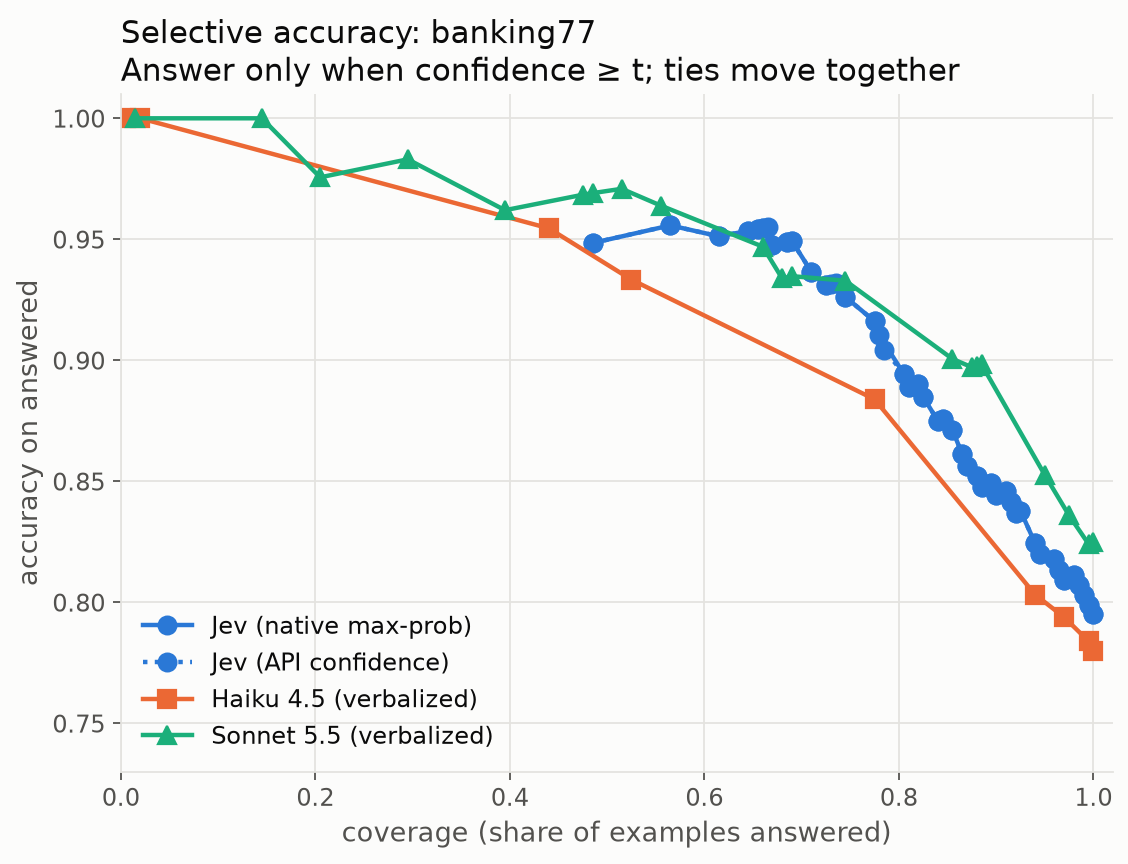
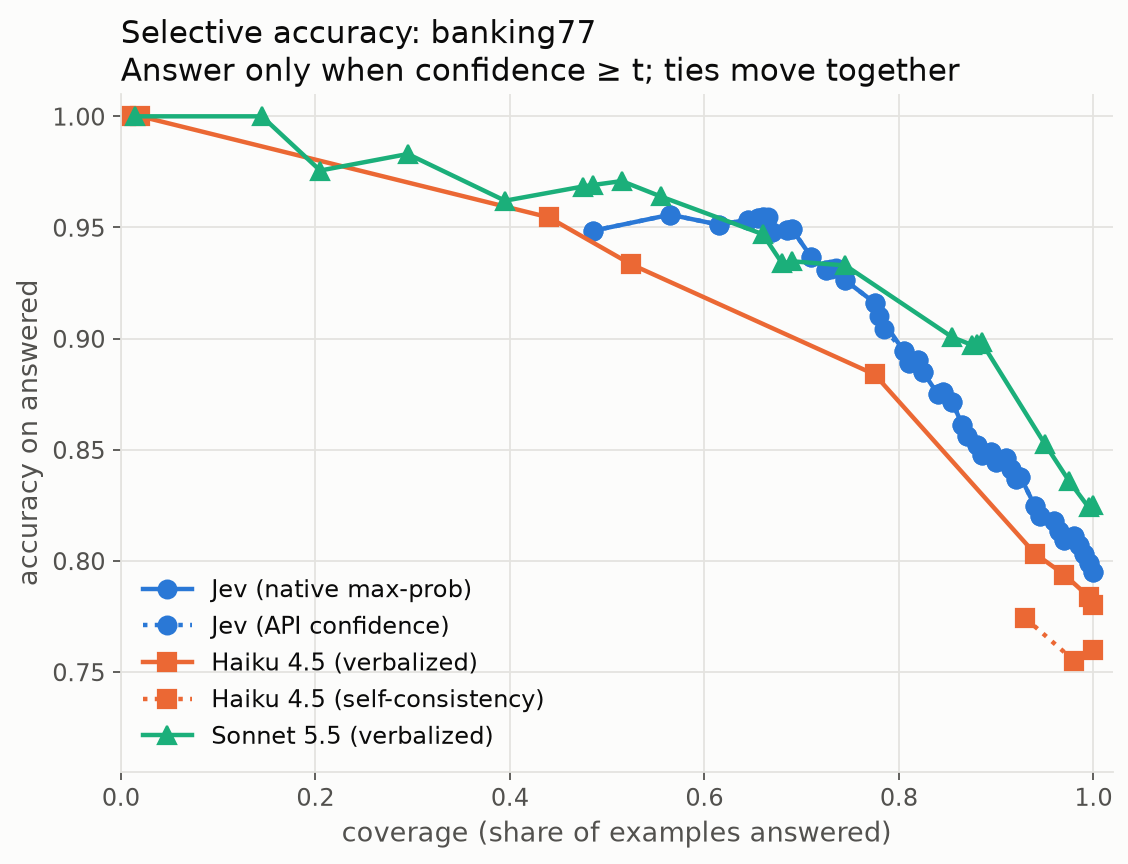
Add Haiku self-consistency results and same-subset comparison
- Banking77, 100 examples x k=5 at temperature 1.0 via the Batches API
- summary.md compares every method on the exact examples self-consistency used
- Spend ledger final at $1.82 of the $4.00 cap

diff --git a/src/jev_bench/report.py b/src/jev_bench/report.py
@@ -47,6 +47,7 @@ class Unit:
     gold: list[str]
     decisions: list[Decision]
     warmup: list[bool]
+    example_ids: list[str]
 
     @property
     def key(self) -> str:
@@ -75,22 +76,23 @@ def load_units(raw_dir: Path = RAW_DIR) -> list[Unit]:
     units: list[Unit] = []
     for path in sorted(raw_dir.glob("*.jsonl"), key=_model_order):
         dataset, model, mode = path.stem.split("__")
-        gold, decisions, warm = [], [], []
+        gold, decisions, warm, ids = [], [], [], []
         with path.open(encoding="utf-8") as f:
             for line in f:
                 r = json.loads(line)
                 gold.append(r["gold"])
                 decisions.append(Decision.model_validate(r["decision"]))
                 warm.append(bool(r.get("warmup")))
+                ids.append(r["example_id"])
         method = METHOD.get((model, mode), mode)
-        units.append(Unit(dataset, model, mode, method, gold, decisions, warm))
+        units.append(Unit(dataset, model, mode, method, gold, decisions, warm, ids))
         if model == "jev" and mode == "batch":
             # Same predictions, scored with the API's own `confidence` field.
             api = [
                 d.model_copy(update={"confidence": d.api_confidence}) if d.error is None else d
                 for d in decisions
             ]
-            units.append(Unit(dataset, model, mode, "API confidence", gold, api, warm))
+            units.append(Unit(dataset, model, mode, "API confidence", gold, api, warm, ids))
     return units
 
 
@@ -250,6 +252,45 @@ def summary_markdown(df: pd.DataFrame, cfg: BenchConfig) -> str:
     return "\n".join(lines) + "\n"
 
 
+def same_subset_markdown(units: list[Unit], n_bins: int) -> str:
+    """Compare every method on exactly the examples the self-consistency run used.
+
+    Self-consistency runs on a smaller subset (it costs k calls per example), so
+    its row in the main table is not directly comparable to 200-example rows.
+    """
+    sc = [u for u in units if u.mode == "self_consistency"]
+    if not sc:
+        return ""
+    lines = []
+    for s in sc:
+        ids = {d_id for d_id, w in zip(s.example_ids, s.warmup, strict=True) if not w}
+        lines += [
+            f"## Same-subset comparison: {s.dataset} "
+            f"({len(ids)} examples used by self-consistency)",
+            "",
+            "| model (confidence) | accuracy | ECE | AUROC | wrong@≥0.9 | hard ≥0.99 |",
+            "|---|---|---|---|---|---|",
+        ]
+        for u in units:
+            if u.dataset != s.dataset or u.mode == "latency":
+                continue
+            keep = [i for i, d_id in enumerate(u.example_ids) if d_id in ids]
+            sub = Unit(
+                u.dataset, u.model, u.mode, u.method,
+                [u.gold[i] for i in keep], [u.decisions[i] for i in keep],
+                [u.warmup[i] for i in keep], [u.example_ids[i] for i in keep],
+            )  # fmt: skip
+            correct_all, conf, corr = _arrays(sub)
+            lines.append(
+                f"| {u.label} | {_fmt(M.accuracy(correct_all), 'pct')} "
+                f"| {_fmt(M.ece(conf, corr, n_bins))} | {_fmt(M.auroc(conf, corr))} "
+                f"| {_fmt(M.confident_wrong_rate(conf, corr, 0.9), 'pct')} "
+                f"| {_fmt(M.hard_share(conf), 'pct')} |"
+            )
+        lines.append("")
+    return "\n".join(lines)
+
+
 # ---- charts -------------------------------------------------------------------
 
 
@@ -375,7 +416,9 @@ def write_report(cfg: BenchConfig, raw_dir: Path = RAW_DIR, out_dir: Path = RESU
     df = build_summary(units, cfg)
     out_dir.mkdir(parents=True, exist_ok=True)
     df.to_csv(out_dir / "summary.csv", index=False)
-    (out_dir / "summary.md").write_text(summary_markdown(df, cfg), encoding="utf-8")
+    md = summary_markdown(df, cfg)
+    subset = same_subset_markdown(units, cfg.run.ece_bins)
+    (out_dir / "summary.md").write_text(md + ("\n" + subset if subset else ""), encoding="utf-8")
     charts: list[Path] = []
     chart_dir = out_dir / "charts"
     chart_dir.mkdir(parents=True, exist_ok=True)

diff --git a/results/summary.md b/results/summary.md
@@ -11,6 +11,7 @@ Claude has no native probabilities here: its confidence is *verbalized* or *self
 | Jev (native max-prob) | 200 | 79.5% [74.0%, 85.0%] | 0.780 | 0.116 [0.080, 0.170] | 0.445 | 0.130 | 0.847 | 9.0% | 4.5% | 56.5% | 0.0% | $0.087 | n/a |
 | Jev (API confidence) | 200 | 79.5% [74.0%, 85.0%] | 0.780 | 0.116 [0.081, 0.172] | 0.435 | 0.129 | 0.846 | 9.0% | 4.5% | 56.5% | 0.0% | $0.087 | n/a |
 | Haiku 4.5 (verbalized) | 200 | 78.0% [72.0%, 83.0%] | 0.772 | 0.090 [0.063, 0.155] | 0.350 | 0.150 | 0.809 | 9.0% | 3.5% | 0.5% | 0.0% | $2.492 | $1.246 |
+| Haiku 4.5 (self-consistency) | 100 | 76.0% [67.0%, 84.0%] | 0.716 | 0.238 [0.164, 0.320] | 0.400 | 0.233 | 0.535 | 24.0% | 21.0% | 93.0% | 0.0% | $12.463 | $6.232 |
 | Sonnet 5.5 (verbalized) | 200 | 82.5% [77.5%, 88.0%] | 0.821 | 0.095 [0.065, 0.143] | 0.800 | 0.110 | 0.854 | 3.5% | 1.5% | 0.0% | 0.0% | $0.983 | $0.492 |
 
 ## clinc150
@@ -49,3 +50,13 @@ Client: Tirana, Albania (Europe). Concurrency per provider: {'typesafe': 4, 'ant
 | Jev | 50 | 266 | 397 | 653 | 0.0% |
 | Haiku 4.5 | 50 | 767 | 1,286 | 1,437 | 0.0% |
 | Sonnet 5.5 | 50 | 1,527 | 2,410 | 3,902 | 0.0% |
+
+## Same-subset comparison: banking77 (100 examples used by self-consistency)
+
+| model (confidence) | accuracy | ECE | AUROC | wrong@≥0.9 | hard ≥0.99 |
+|---|---|---|---|---|---|
+| Jev (native max-prob) | 79.0% | 0.123 | 0.808 | 6.0% | 57.0% |
+| Jev (API confidence) | 79.0% | 0.123 | 0.808 | 6.0% | 57.0% |
+| Haiku 4.5 (verbalized) | 75.0% | 0.112 | 0.790 | 4.0% | 0.0% |
+| Haiku 4.5 (self-consistency) | 76.0% | 0.238 | 0.535 | 21.0% | 93.0% |
+| Sonnet 5.5 (verbalized) | 81.0% | 0.121 | 0.855 | 3.0% | 0.0% |
